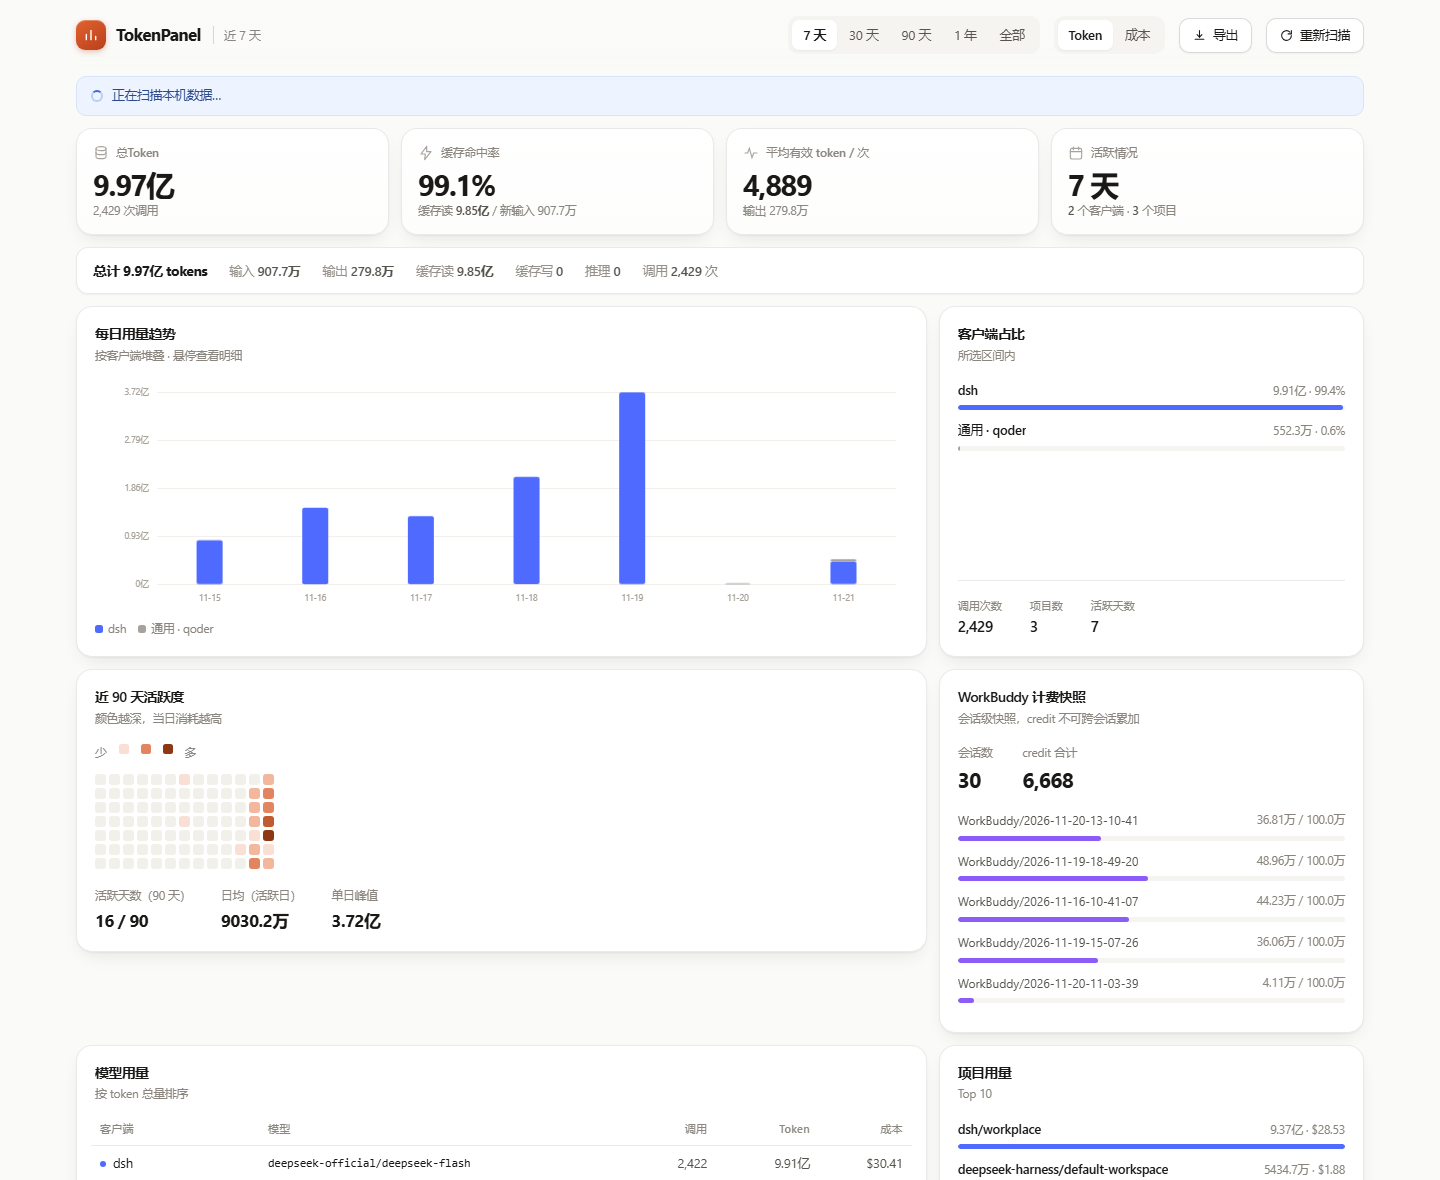
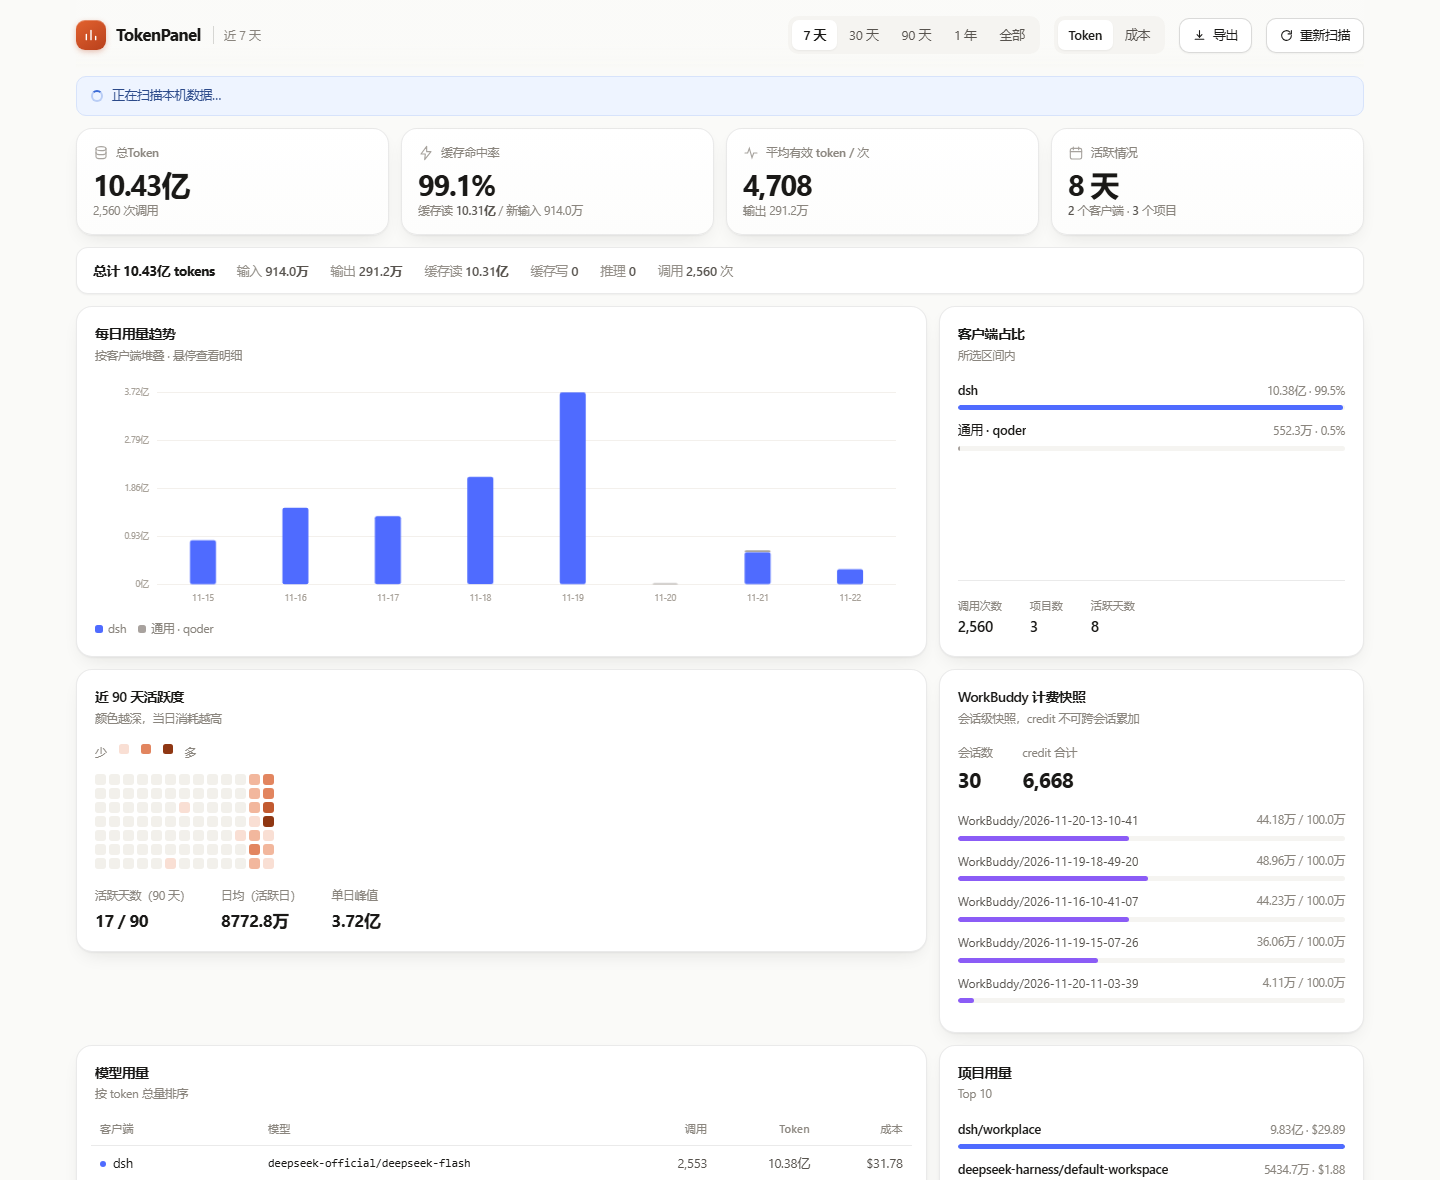
fix: 按天统计改用本地时区，修复凌晨用量归错日期
之前用 ts/86400000 做 UTC 分天，北京时间 00:00-08:00 的调用会被
计入前一天。实测本机仅 3 月就有 198 条记录受影响。

- trend 与 overview 的按天聚合改为 date(...,'localtime')
- 前端图表与热力图适配本地日期字符串
- 新增 2 项时区归日断言（47 项）

diff --git a/tokenpanel/web/index.html b/tokenpanel/web/index.html
@@ -605,7 +605,7 @@ function axisFormatter(maxV){
 function renderTrend(t){
   const svg = $("#trendChart");
   const clients = Object.keys(t.series).sort();
-  const labels = clients.length ? t.series[clients[0]].labels : [];
+  const labels = (t.days || []).map(d => String(d).slice(5));
   $("#legend").innerHTML = clients.map((c,i)=>
     `<span><i style="background:${colorOf(c,i)}"></i>${esc(nameOf(c))}</span>`).join("");
 
@@ -666,18 +666,27 @@ function renderShare(o){
     </div>`;
 }
 
+function ymd(d){
+  const p = n => String(n).padStart(2, "0");
+  return `${d.getFullYear()}-${p(d.getMonth()+1)}-${p(d.getDate())}`;
+}
+
 function renderHeat(t){
+  const days = t.days || [];
   const map = {};
-  (t.days || []).forEach(d => { map[d] = 0; });
+  days.forEach(d => { map[d] = 0; });
   Object.values(t.series).forEach(s=>{
-    s.labels.forEach((_,i)=>{
-      const d = t.days && t.days[i];
-      if (d !== undefined) map[d] = (map[d]||0) + s.tokens[i];
+    s.tokens.forEach((v,i)=>{
+      const d = days[i];
+      if (d) map[d] = (map[d]||0) + v;
     });
   });
-  const today = Math.floor(Date.now() / 86400000);
+  // 固定展示最近 91 天，按本地日期逐日推进
+  const now = new Date();
   const span = 91, keys = [];
-  for (let i = span - 1; i >= 0; i--) keys.push(today - i);
+  for (let i = span - 1; i >= 0; i--){
+    keys.push(ymd(new Date(now.getFullYear(), now.getMonth(), now.getDate() - i)));
+  }
   const vals = keys.map(k => map[k] || 0);
   const max = Math.max(...vals, 1);
   const q = [0.12,0.3,0.55,0.8].map(p=>max*p);
@@ -686,7 +695,7 @@ function renderHeat(t){
     const v = vals[i];
     let lv = v>0 ? 1 : 0;
     if (v>q[0]) lv=2; if (v>q[1]) lv=3; if (v>q[2]) lv=4; if (v>q[3]) lv=5;
-    const label = new Date(k*86400000).toISOString().slice(5,10);
+    const label = k.slice(5);
     return `<div class="cell l${lv}" title="${label} · ${fmt(v)}"
       style="animation-delay:${REDUCE?0:Math.min(.4, i*0.004)}s"></div>`;
   }).join("");

diff --git a/tokenpanel/server.py b/tokenpanel/server.py
@@ -23,10 +23,6 @@ def _since(days: int) -> int:
     return int((time.time() - days * 86400) * 1000)
 
 
-def _day_label(day: int) -> str:
-    return datetime.fromtimestamp(day * 86400).strftime("%m-%d")
-
-
 @app.get("/")
 def index() -> FileResponse:
     return FileResponse(WEB_DIR / "index.html", media_type="text/html; charset=utf-8")
@@ -44,7 +40,7 @@ def overview(days: int = Query(7, ge=0, le=3650)) -> JSONResponse:
                       COALESCE(SUM(cache_write),0) AS cache_write,
                       COALESCE(SUM(reasoning),0) AS reasoning,
                       COALESCE(SUM(cost_usd),0) AS cost,
-                      COUNT(DISTINCT ts/86400000) AS active_days,
+                      COUNT(DISTINCT date(ts/1000,'unixepoch','localtime')) AS active_days,
                       COUNT(DISTINCT client) AS clients,
                       COUNT(DISTINCT project) AS projects
                FROM usage_event WHERE ts >= ?""",
@@ -77,7 +73,8 @@ def trend(days: int = Query(30, ge=0, le=3650)) -> JSONResponse:
     since = _since(days)
     with db.session() as conn:
         rows = conn.execute(
-            """SELECT client, ts/86400000 AS day,
+            """SELECT client,
+                      date(ts/1000,'unixepoch','localtime') AS day,
                       SUM(input) AS input, SUM(output) AS output,
                       SUM(cache_read) AS cache_read, SUM(cache_write) AS cache_write,
                       SUM(cost_usd) AS cost
@@ -87,21 +84,16 @@ def trend(days: int = Query(30, ge=0, le=3650)) -> JSONResponse:
         ).fetchall()
     days_set = sorted({r["day"] for r in rows})
     clients = sorted({r["client"] for r in rows})
-    series = {c: {"labels": [], "tokens": [], "cost": []} for c in clients}
     index = {(r["client"], r["day"]): r for r in rows}
-    for day in days_set:
-        for c in clients:
+    series = {c: {"tokens": [], "cost": []} for c in clients}
+    for c in clients:
+        for day in days_set:
             r = index.get((c, day))
-            s = series[c]
-            s["labels"].append(_day_label(day))
-            if r:
-                s["tokens"].append(
-                    (r["input"] or 0) + (r["output"] or 0) + (r["cache_read"] or 0) + (r["cache_write"] or 0)
-                )
-                s["cost"].append(round(r["cost"] or 0, 4))
-            else:
-                s["tokens"].append(0)
-                s["cost"].append(0.0)
+            series[c]["tokens"].append(
+                ((r["input"] or 0) + (r["output"] or 0) + (r["cache_read"] or 0) + (r["cache_write"] or 0))
+                if r else 0
+            )
+            series[c]["cost"].append(round(r["cost"] or 0, 4) if r else 0.0)
     return JSONResponse({"days": days_set, "series": series})
 
 

diff --git a/tokenpanel/server_fallback.py b/tokenpanel/server_fallback.py
@@ -23,10 +23,6 @@ def _since(days: int) -> int:
     return 0 if days <= 0 else int((time.time() - days * 86400) * 1000)
 
 
-def _label(day: int) -> str:
-    return datetime.fromtimestamp(day * 86400).strftime("%m-%d")
-
-
 def _overview(days: int) -> dict:
     since = _since(days)
     with db.session() as conn:
@@ -36,7 +32,7 @@ def _overview(days: int) -> dict:
                           COALESCE(SUM(output),0) AS output, COALESCE(SUM(cache_read),0) AS cache_read,
                           COALESCE(SUM(cache_write),0) AS cache_write, COALESCE(SUM(reasoning),0) AS reasoning,
                           COALESCE(SUM(cost_usd),0) AS cost,
-                          COUNT(DISTINCT ts/86400000) AS active_days,
+                          COUNT(DISTINCT date(ts/1000,'unixepoch','localtime')) AS active_days,
                           COUNT(DISTINCT client) AS clients,
                           COUNT(DISTINCT project) AS projects
                    FROM usage_event WHERE ts >= ?""",
@@ -67,10 +63,13 @@ def _trend(days: int) -> dict:
     since = _since(days)
     with db.session() as conn:
         rows = conn.execute(
-            """SELECT client, ts/86400000 AS day, SUM(input) AS input, SUM(output) AS output,
+            """SELECT client,
+                      date(ts/1000,'unixepoch','localtime') AS day,
+                      SUM(input) AS input, SUM(output) AS output,
                       SUM(cache_read) AS cache_read, SUM(cache_write) AS cache_write,
                       SUM(cost_usd) AS cost
-               FROM usage_event WHERE ts >= ? GROUP BY client, day ORDER BY day""",
+               FROM usage_event WHERE ts >= ?
+               GROUP BY client, day ORDER BY day""",
             (since,),
         ).fetchall()
     days_set = sorted({r["day"] for r in rows})
@@ -78,16 +77,15 @@ def _trend(days: int) -> dict:
     index = {(r["client"], r["day"]): r for r in rows}
     series = {}
     for c in clients:
-        s = {"labels": [], "tokens": [], "cost": []}
+        item = {"tokens": [], "cost": []}
         for day in days_set:
             r = index.get((c, day))
-            s["labels"].append(_label(day))
-            s["tokens"].append(
+            item["tokens"].append(
                 ((r["input"] or 0) + (r["output"] or 0) + (r["cache_read"] or 0) + (r["cache_write"] or 0))
                 if r else 0
             )
-            s["cost"].append(round(r["cost"] or 0, 4) if r else 0.0)
-        series[c] = s
+            item["cost"].append(round(r["cost"] or 0, 4) if r else 0.0)
+        series[c] = item
     return {"days": days_set, "series": series}
 
 

diff --git a/tokenpanel/selftest.py b/tokenpanel/selftest.py
@@ -186,6 +186,44 @@ def test_runtime(r: Runner) -> None:
     r.check("扫描状态结构", scan_status_shape)
 
 
+def test_timezone_buckets(r: Runner) -> None:
+    """按天统计必须用本地时区，否则北京时间凌晨的用量会被算到前一天。"""
+    import datetime
+    import tempfile
+
+    def local_midnight_stays() -> None:
+        tmp = Path(tempfile.mkdtemp()) / "tz.db"
+        conn = db.connect(tmp)
+        # 本地时间 00:30，属于当天
+        ts = int(datetime.datetime(2026, 11, 22, 0, 30).timestamp() * 1000)
+        db.upsert_events(conn, [
+            ("claude", "s", "k", ts, "p", "m", 10, 10, 0, 0, 0, 0.0, "priced", "exact")
+        ])
+        conn.commit()
+        day = conn.execute(
+            "SELECT date(ts/1000,'unixepoch','localtime') FROM usage_event"
+        ).fetchone()[0]
+        conn.close()
+        _eq(day, "2026-11-22")
+
+    def local_evening_stays() -> None:
+        tmp = Path(tempfile.mkdtemp()) / "tz2.db"
+        conn = db.connect(tmp)
+        ts = int(datetime.datetime(2026, 11, 22, 23, 30).timestamp() * 1000)
+        db.upsert_events(conn, [
+            ("claude", "s", "k", ts, "p", "m", 10, 10, 0, 0, 0, 0.0, "priced", "exact")
+        ])
+        conn.commit()
+        day = conn.execute(
+            "SELECT date(ts/1000,'unixepoch','localtime') FROM usage_event"
+        ).fetchone()[0]
+        conn.close()
+        _eq(day, "2026-11-22")
+
+    r.check("凌晨 00:30 归当天", local_midnight_stays)
+    r.check("深夜 23:30 归当天", local_evening_stays)
+
+
 def test_service(r: Runner) -> None:
     """端到端冒烟：真正起一次 HTTP 服务并访问各端点（CI 也跑）。"""
     import json
@@ -391,6 +429,8 @@ def main() -> int:
     test_limits(r)
     print("[故障恢复]")
     test_recovery(r)
+    print("[时区归日]")
+    test_timezone_buckets(r)
     print("[服务冒烟]")
     test_service(r)
     return r.report()

diff --git a/tokenpanel/__init__.py b/tokenpanel/__init__.py
@@ -1,3 +1,3 @@
 """TokenPanel - 本地 AI 客户端 token 用量面板。"""
 
-__version__ = "0.1.3"
+__version__ = "0.1.4"

diff --git a/docs/release-notes-v0.1.4.md b/docs/release-notes-v0.1.4.md
@@ -1,0 +1,47 @@
+# TokenPanel v0.1.4
+
+**下载 `TokenPanel.exe`，双击即用。**
+
+## 这是一个数据准确性修复
+
+### 凌晨的用量不再被算到前一天
+
+之前按天统计用的是 UTC 日期。对北京时间来说，**每天 00:00–08:00 的调用会被归到前一天**。
+
+实测本机数据里，仅 3 月就有 198 条记录被错分到别的日期：
+
+| UTC 日期 | 实际本地日期 | 受影响记录 |
+|---|---|---|
+| 03-24 | 03-25 | 60 条 |
+| 03-22 | 03-23 | 107 条 |
+| 03-20 | 03-21 | 31 条 |
+
+现在全部按本地时区分组，柱状图、热力图的每一天都对应你真实的作息。
+
+### 自检 47 项
+
+新增「时区归日」两组断言：本地 00:30 和 23:30 的事件都必须落在当天。这条测试在 UTC 时区的 CI 机器上同样成立。
+
+## 怎么用
+
+1. 把 `TokenPanel.exe` 放到任意有写权限的文件夹
+2. 双击
+3. 秒开界面，十几秒后数据补齐
+
+> **首次运行 Windows 可能提示「Windows 已保护你的电脑」**
+> 未做代码签名（个人项目无证书），点「更多信息」→「仍要运行」即可。
+
+## 升级方式
+
+直接下载覆盖即可。数据在 `data\tokenpanel.db`，不受影响；已采集的历史记录无需重新扫描。
+
+## 隐私
+
+只读本地日志与 SQLite（`mode=ro`）。唯一联网行为是你主动点击「检查更新」时的一次版本查询。
+
+## 已知边界
+
+- **仅 Windows 10/11 x64**；macOS / Linux 请从源码运行
+- **Qoder** 仅部分会话含 usage 字段
+- **Cursor / Trae / Windsurf / Copilot** 用量在云端，本地无逐次记录
+- **未定价模型** 金额显示为「—」，在 `pricing.json` 补单价后重新扫描即可
